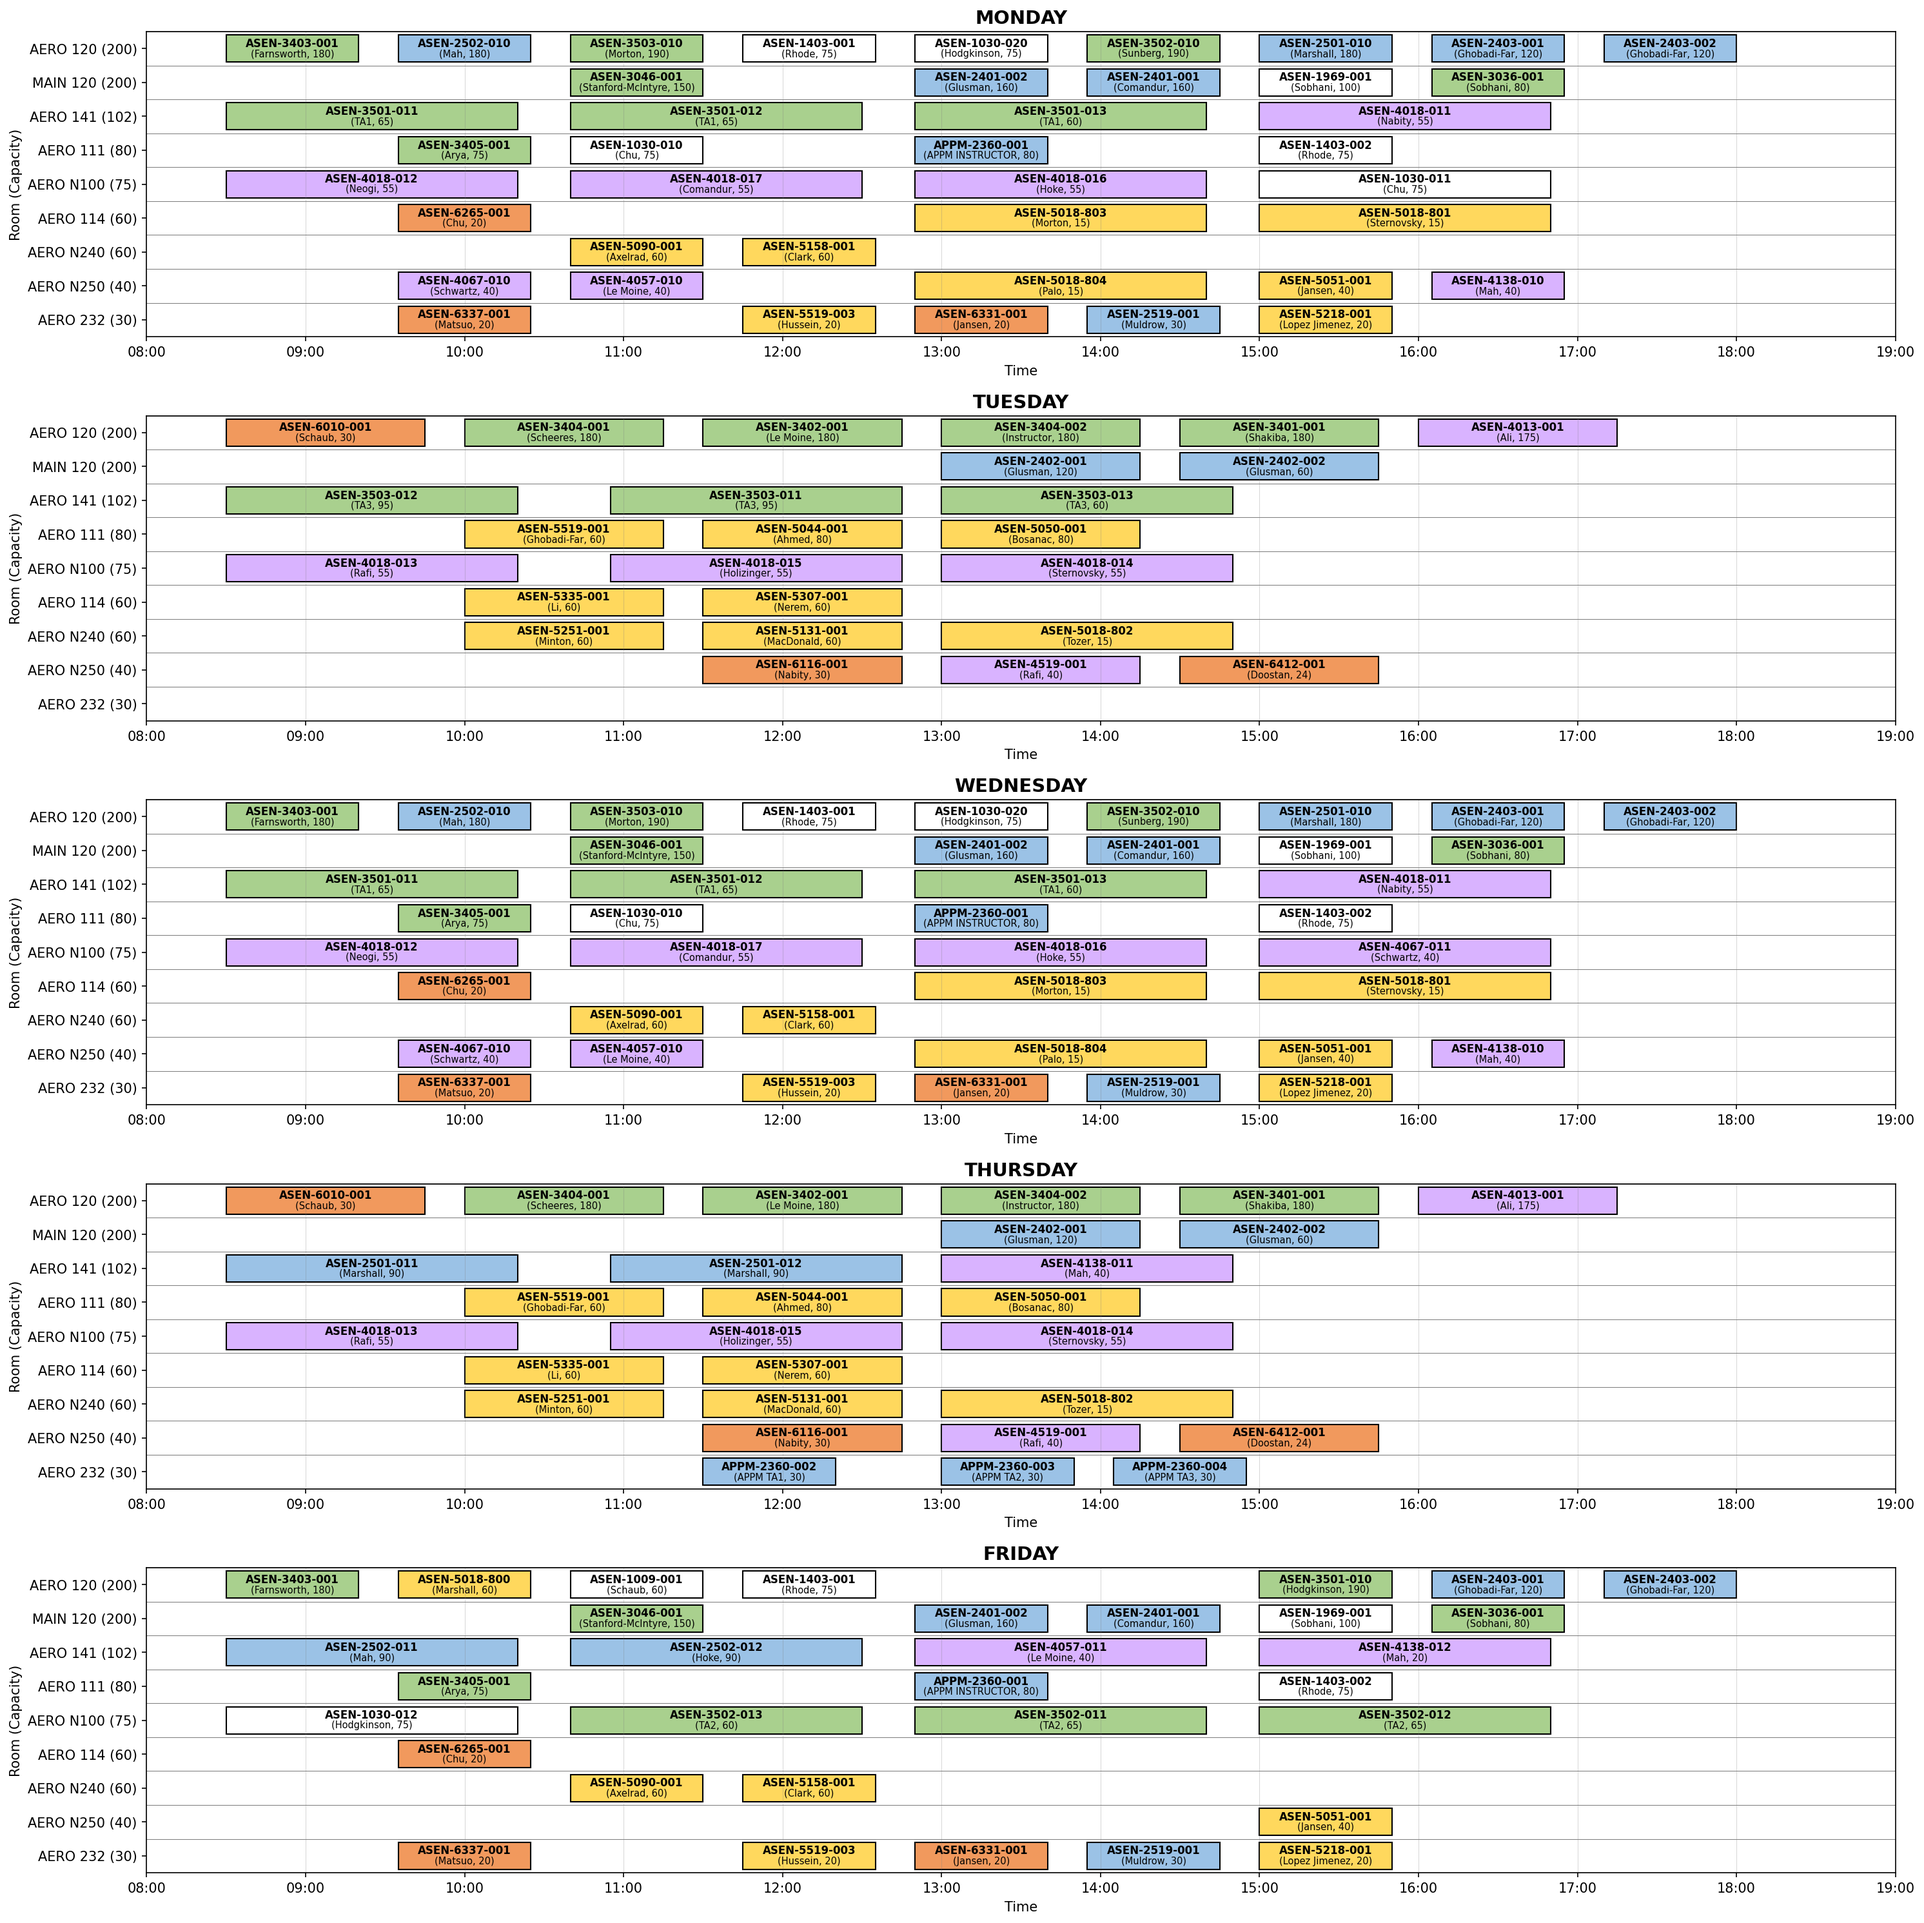
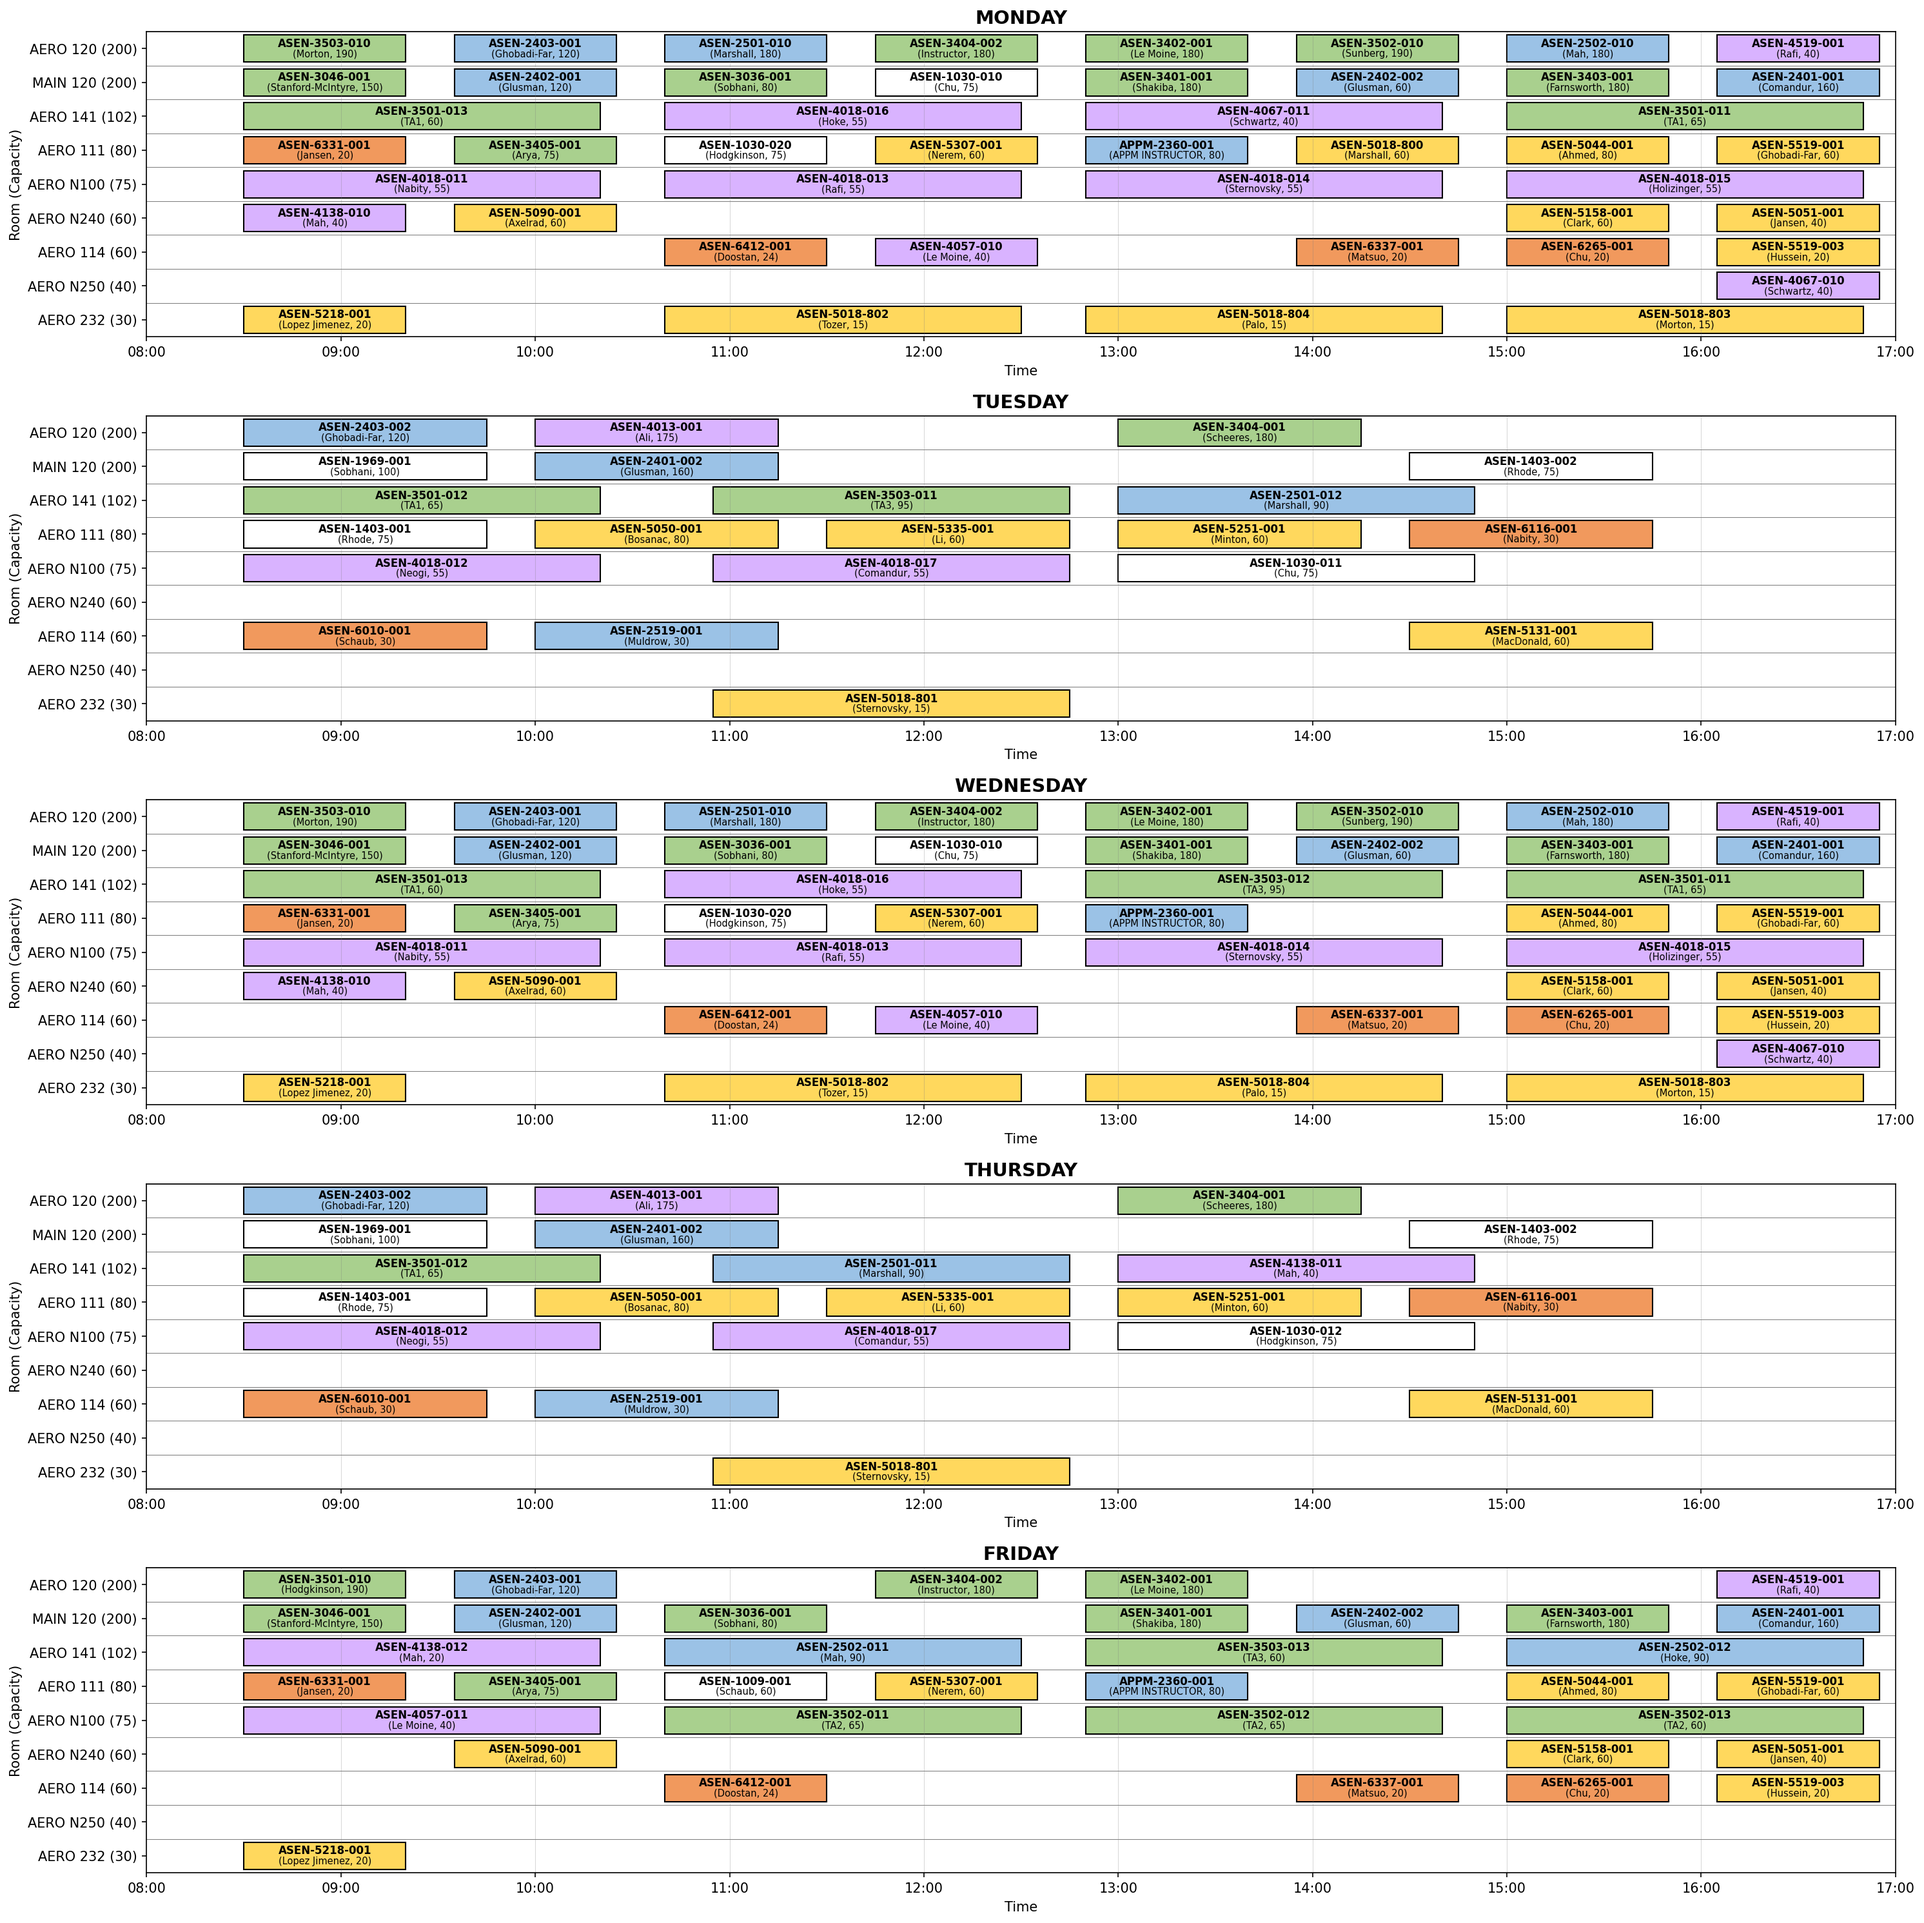
Add AES example data, optimization script, and outputs

diff --git a/example/example.py b/example/example.py
@@ -9,73 +9,13 @@ Each user can create their own script with different constraint and objective co
 from satisfaculty import *
 
 scheduler = InstructorScheduler(solver_verbose=True)
-scheduler.load_rooms('aes-rooms.csv')
-scheduler.load_courses('aes-courses.csv')
-scheduler.load_time_slots('aes-time_slots.csv')
+scheduler.load_rooms('rooms.csv')
+scheduler.load_courses('courses.csv')
+scheduler.load_time_slots('time_slots.csv')
 
-
-# 2000-level courses that cannot overlap
-asen2401_section = [c for c in scheduler.courses_df["Course"]
-    if c.startswith("ASEN-2401-")
-]
-
-asen2402_section = [c for c in scheduler.courses_df["Course"]
-    if c.startswith("ASEN-2402-")
-]
-
-asen2403_section = [c for c in scheduler.courses_df["Course"]
-    if c.startswith("ASEN-2403-")
-]
-asen2501_section = [c for c in scheduler.courses_df["Course"]
-    if c.startswith("ASEN-2501-")
-]
-
-asen2502_section = [c for c in scheduler.courses_df["Course"]
-    if c.startswith("ASEN-2502-")
-]
-
-#appm2360_section = ["APPM-2360-001"]
-
-# 3000-level courses that cannot overlap (block 1)
-asen3401_section = [c for c in scheduler.courses_df["Course"]
-    if c.startswith("ASEN-3401-")
-]
-
-asen3402_section = [c for c in scheduler.courses_df["Course"]
-    if c.startswith("ASEN-3402-")
-]
-
-asen3404_section = [c for c in scheduler.courses_df["Course"]
-    if c.startswith("ASEN-3404-")
-]
-
-asen3501_section = [c for c in scheduler.courses_df["Course"]
-    if c.startswith("ASEN-3501-")
-]
-
-# 3000-level courses that cannot overlap (block 2)
-asen3403_section = [c for c in scheduler.courses_df["Course"]
-    if c.startswith("ASEN-3403-")
-]
-
-asen3405_section = [c for c in scheduler.courses_df["Course"]
-    if c.startswith("ASEN-3405-")
-]
-
-asen3502_section = [c for c in scheduler.courses_df["Course"]
-    if c.startswith("ASEN-3502-")
-]
-
-asen3503_section = [c for c in scheduler.courses_df["Course"]
-    if c.startswith("ASEN-3503-")
-]
-
-# 4000-level courses that cannot overlap
-asen4018_sections = [
-    c for c in scheduler.courses_df["Course"]
-    if c.startswith("ASEN-4018-")
-]
-asen4013 = ["ASEN-4013-001"]
+# Find all 2000-level and 3000-level courses
+courses_2000 = [c for c in scheduler.courses_df['Course'] if c.startswith('DEPT-2')]
+courses_3000 = [c for c in scheduler.courses_df['Course'] if c.startswith('DEPT-3')]
 
 # Add constraints (required for a valid schedule)
 scheduler.add_constraints([
@@ -85,48 +25,14 @@ scheduler.add_constraints([
     RoomCapacity(),
     ForceRooms(),
     ForceTimeSlots(),
-    NoCourseOverlap(asen2401_section + asen2402_section + asen2403_section + asen2501_section + asen2502_section, name="ASEN-2401, ASEN-2402, ASEN-2403, ASEN-2501, and ASEN-2502"),
-    NoCourseOverlap(asen4013 + asen4018_sections, name="ASEN-4013 and ASEN-4018"),
-    NoCourseOverlap(asen3401_section + asen3402_section + asen3404_section + asen3501_section, name="ASEN-3401, ASEN-3402, ASEN-3404, and ASEN-3501"),
-    NoCourseOverlap(asen3403_section + asen3405_section + asen3502_section + asen3503_section, name="ASEN-3403, ASEN-3405, ASEN-3502, and ASEN-3503"),
+    NoCourseOverlap(courses_2000, name="2000-level"),
+    NoCourseOverlap(courses_3000, name="3000-level"),
 ])
 
 # Define lexicographic optimization objectives (in priority order)
 objectives = [
-    MaximizeBackToBackCourses(
-        courses=["ASEN-2502-011", "ASEN-2502-012"],
-        same_days=True,
-        same_room=True,
-        tolerance=0.0
-    ),
-    MaximizeBackToBackCourses(
-        courses=["ASEN-2501-011", "ASEN-2501-012"],
-        same_days=True,
-        same_room=True,
-        tolerance=0.0
-    ),
-    MaximizeBackToBackCourses(
-        courses=["ASEN-3501-011", "ASEN-3501-012", "ASEN-3501-013"],
-        same_days=True,
-        same_room=True,
-        tolerance=0.0
-    ),
-    MaximizeBackToBackCourses(
-        courses=["ASEN-3502-011", "ASEN-3502-012", "ASEN-3502-013"],
-        same_days=True,
-        same_room=True,
-        tolerance=0.0
-    ),
-    MaximizeBackToBackCourses(
-        courses=["ASEN-3503-011", "ASEN-3503-012", "ASEN-3503-013"],
-        same_days=True,
-        same_room=True,
-        tolerance=0.0
-    ),
-    MinimizePreferredRooms(['MAIN 120']),
-    MaximizePreferredRooms(['AERO 120']),
     MinimizeClassesAfter('17:00'),
-    MinimizeClassesBefore('9:00'),   
+    MinimizeClassesBefore('9:00'),
 ]
 
 scheduler.lexicographic_optimize(objectives)

diff --git a/example/optimize.py b/example/optimize.py
@@ -8,7 +8,7 @@ Each user can create their own script with different constraint and objective co
 
 from satisfaculty import *
 
-scheduler = InstructorScheduler(solver_verbose=True)            
+scheduler = InstructorScheduler(solver_verbose=True)
 scheduler.load_rooms('aes-rooms.csv')
 scheduler.load_courses('aes-courses.csv')
 scheduler.load_time_slots('aes-time_slots.csv')
